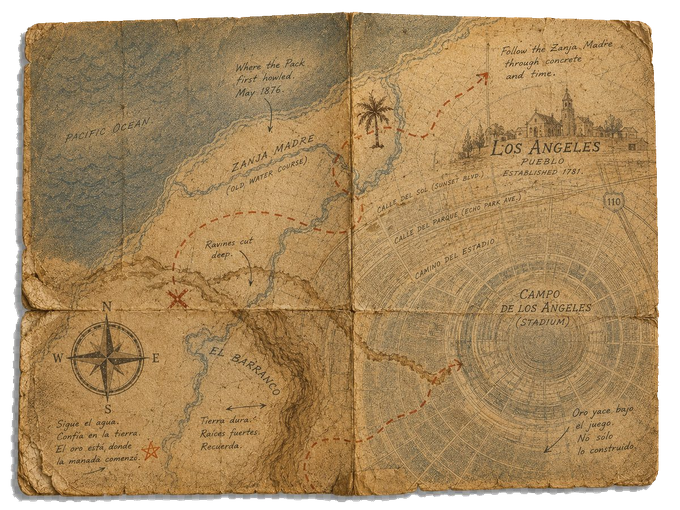
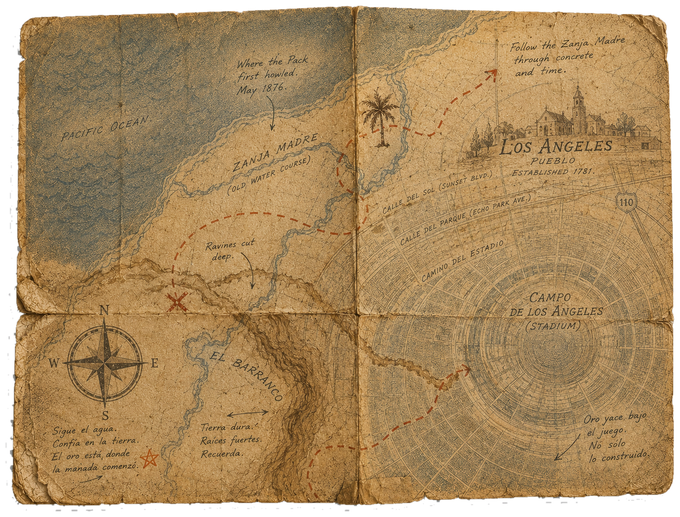
Replace map with better art (transparent), larger on mobile, cache-busted

diff --git a/index.html b/index.html
@@ -536,6 +536,7 @@ footer .fine{ font-family:"Special Elite",monospace; font-size:11px; letter-spac
 @media(min-width:761px){ .only-mobile{ display:none !important; } }
 /* mobile: LA River accent a touch larger */
 @media(max-width:760px){ .story-accent.accent-river{ width:min(205px,60%); } }
+@media(max-width:760px){ .story-accent.accent-map{ width:min(230px,66%); } }
 /* desktop: villain cards staggered through the Corked Bat text */
 .beat.stack .beat-text{ display:flow-root; }
 .villain-float{ float:right; width:clamp(150px,17%,186px); margin:4px 0 14px 30px; transform:rotate(3deg); }
@@ -635,7 +636,7 @@ footer .fine{ font-family:"Special Elite",monospace; font-size:11px; letter-spac
       </div>
 
       <div class="reveal has-accent" style="margin-top:30px;">
-        <img class="story-accent left accent-map brown-frame" src="art/objects/obj-map.png" alt="" aria-hidden="true" loading="lazy" onerror="this.style.display='none'">
+        <img class="story-accent left accent-map brown-frame" src="art/objects/obj-map.png?v=2" alt="" aria-hidden="true" loading="lazy" onerror="this.style.display='none'">
         <p class="lede" style="color:var(--cream); max-width:820px;">
           When the kids lay the brittle page over a projected map of the city,
           the crisscrossing lines start making sense; and a madcap hunt yanks them
